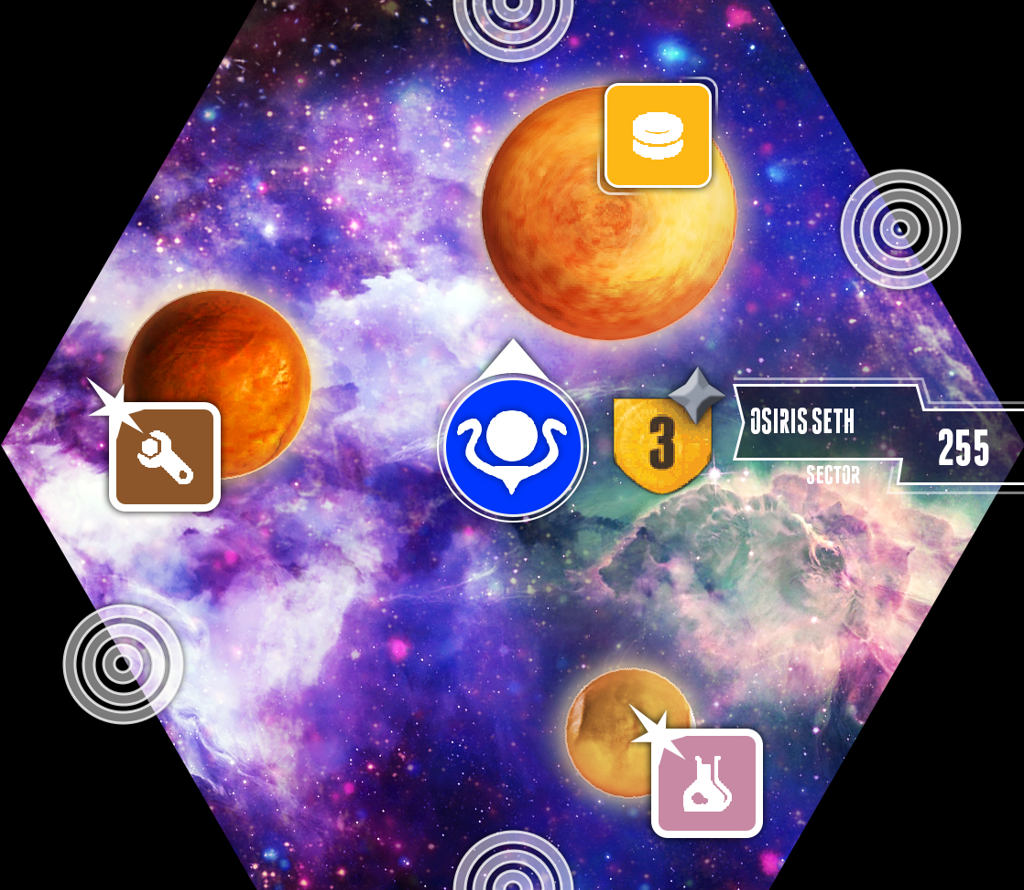
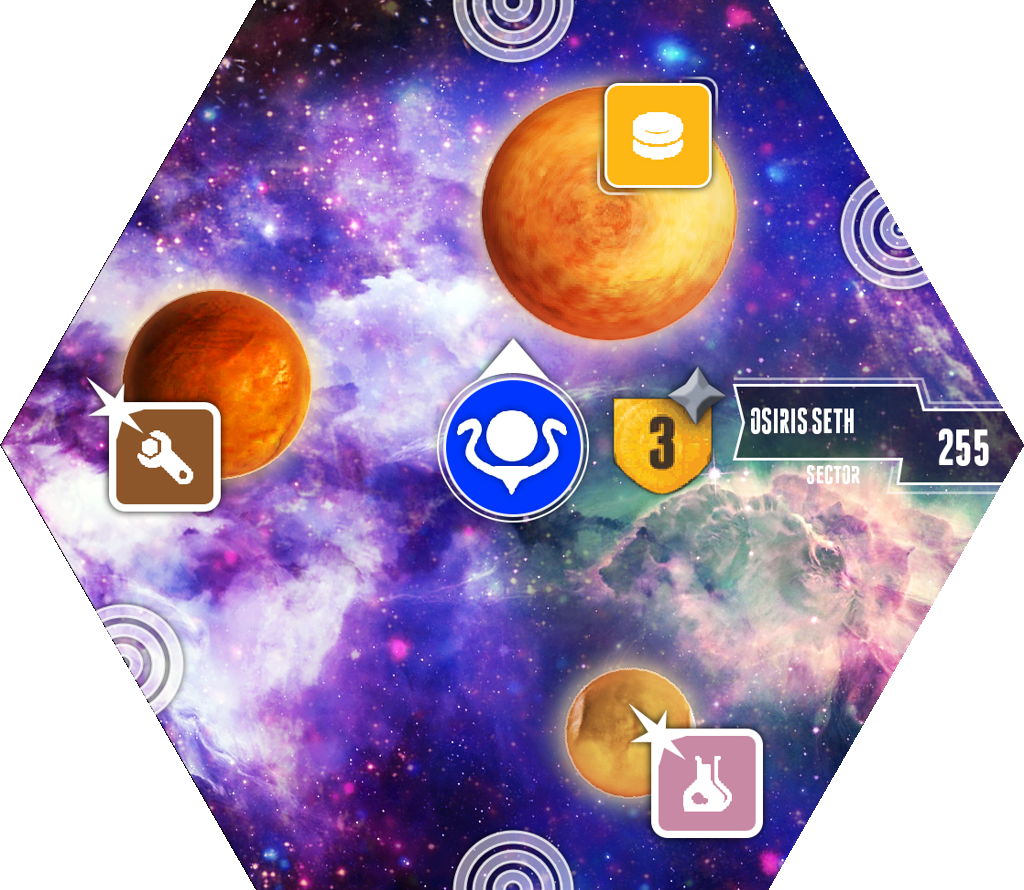
Cut the home tile corners of Ra, Exiles and Rho Indi like every other sector
All three were saved with the page background still in the corners: white
on the Exiles' and Rho Indi's tiles, black on the Remnants of Ra home
sector. Every other sector tile in the repo is cut to the hexagon, so
wherever DrawHelper composites a tile outside the map - the tile strips
in the influence prompts, any single-tile render - these three showed
blocks around the hexagon instead of the hexagon itself.

The map render is unchanged: a home sector's corners always end up under
the ring tiles painted after it, which is why this went unnoticed. The Ra
tile test now asserts the corner is transparent.

Changed region(s): [[0.75, 0.0, 1.0, 1.0], [0.0, 0.0, 0.25, 1.0]]

diff --git a/tests/test_ra_home_sector.py b/tests/test_ra_home_sector.py
@@ -30,4 +30,7 @@ def test_ra_home_sector_tile_art():
     assert Path(path).is_file(), path
     with Image.open(path) as tile:
         assert tile.size == (1024, 890)
+        # Corners cut like every other sector tile, or the tile paints its background
+        # over the sectors around it wherever the two are composited.
+        assert tile.convert("RGBA").getpixel((0, 0))[3] == 0
         tile.load()
